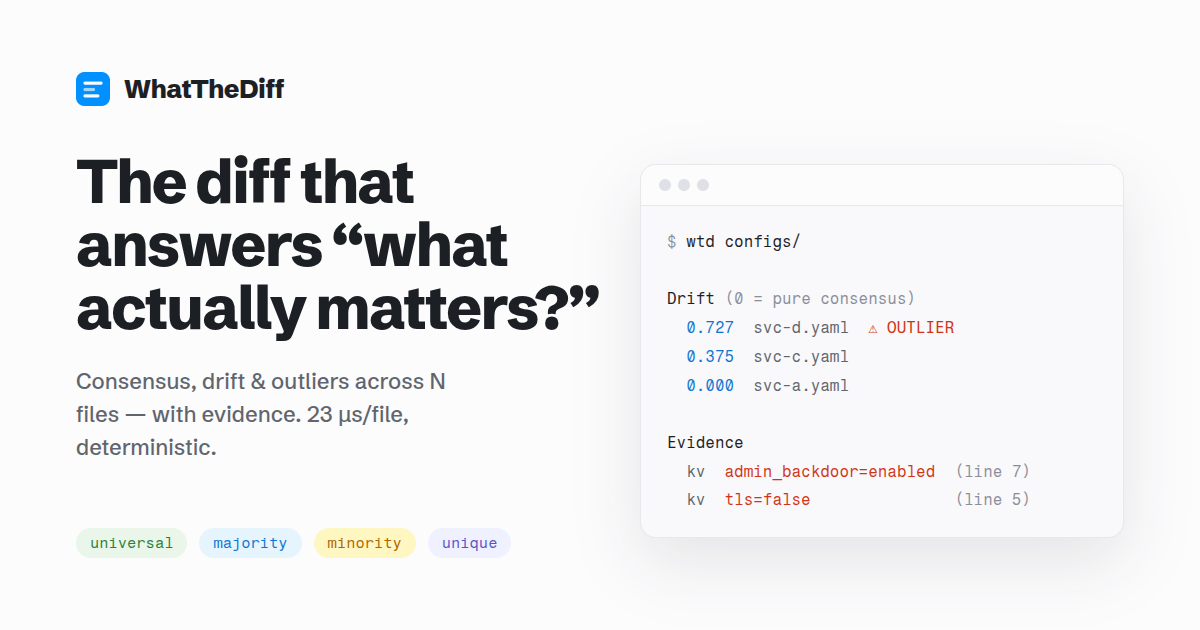
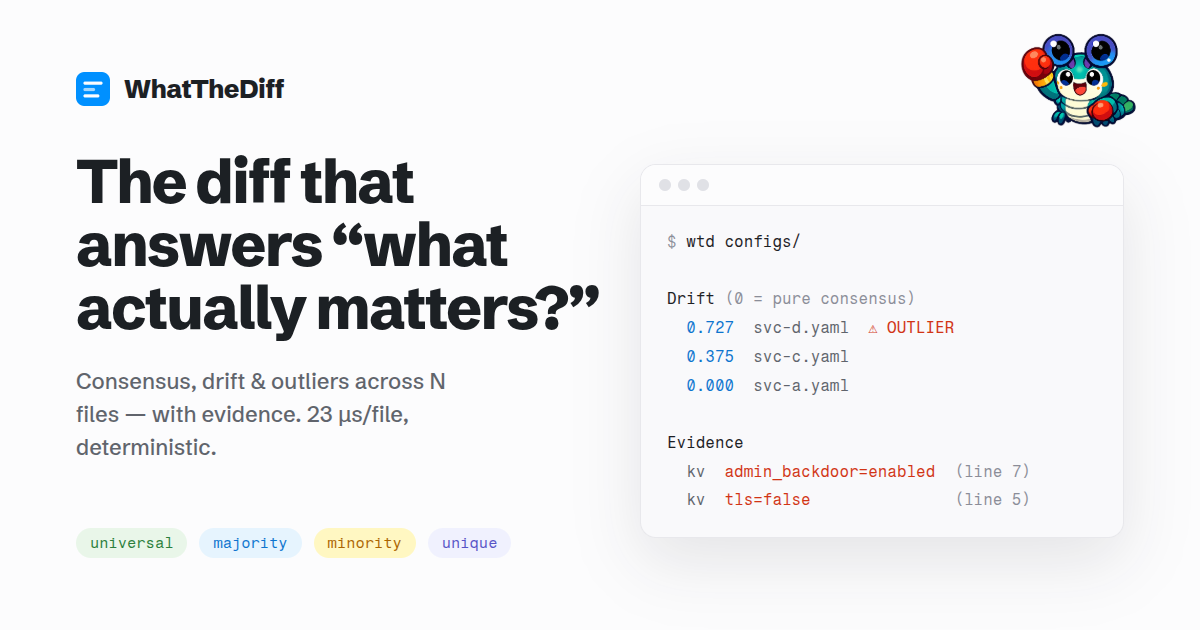
Meet Peek: the WhatTheDiff mascot
Peek is a peacock mantis shrimp — the animal with the most sophisticated
visual system known, able to perceive differences invisible to every
other creature, with the fastest strike in nature for when it spots its
target. Sees everything, flags the one that doesn't belong.

Asset processed from the generated 4-up: best variant selected, alpha
verified (true transparency), RGB nulled under transparent pixels,
trimmed and padded square (571px master at docs/peek.png; legibility
verified at 64px). Placed in the README hero and peeking over the
site's terminal window; OG share image regenerated with Peek. Hero
eyebrow version bumped from stale v0.1.0 to v0.7.0.

Changed region(s): [[0.8325, 0.0603, 0.9558, 0.2111]]

diff --git a/docs/index.html b/docs/index.html
@@ -214,7 +214,14 @@
   .hero-links .plat { color:var(--slate-9); font-size:0.8125rem; }
 
   /* ---------- terminal ---------- */
+  .term-wrap { position:relative; }
+  .peek {
+    position:absolute; top:-72px; right:30px; width:130px; z-index:0;
+    user-select:none; pointer-events:none;
+  }
+  @media (max-width:900px){ .peek { width:92px; top:-52px; right:18px; } }
   .term {
+    position:relative; z-index:1;
     background:var(--slate-2);
     border:var(--border); border-radius:var(--radius-lg);
     box-shadow:0 1px 2px rgba(28,32,36,.04), 0 8px 32px rgba(28,32,36,.06);
@@ -380,7 +387,7 @@
   <div class="hero">
     <div class="wrap">
       <div>
-        <span class="eyebrow rise">Deterministic semantic diff · v0.1.0</span>
+        <span class="eyebrow rise">Deterministic semantic diff · v0.7.0</span>
         <h1 class="rise">The diff that answers<br>“what actually matters?”</h1>
         <p class="lede rise">Point <strong>wtd</strong> at a directory of configs, contracts, or JSON.
         It finds the <strong>consensus</strong>, ranks the <strong>drift</strong>, flags the
@@ -404,6 +411,8 @@
         </div>
       </div>
 
+      <div class="term-wrap">
+      <img class="peek" src="peek.png" alt="Peek, the WhatTheDiff mantis shrimp mascot, peeking over the terminal">
       <figure class="term" aria-label="Real wtd output on a five-file corpus">
         <div class="term-bar" aria-hidden="true"><i></i><i></i><i></i><span>wtd configs/ — 5 artifacts</span></div>
         <pre><span class="dim">$</span> <span class="cmd">wtd configs/</span>
@@ -427,6 +436,7 @@ Corpus: 5 artifacts · 12 distinct primitives · 34 observations
     kv   <span class="bad">tls=false</span>               <span class="dim">(line 5)</span>
     kv   <span class="bad">db.host=10.9.9.9</span>        <span class="dim">(line 3)</span></pre>
       </figure>
+      </div>
     </div>
   </div>
 

diff --git a/README.md b/README.md
@@ -1,5 +1,7 @@
 <div align="center">
 
+<img src="docs/peek.png" width="190" alt="Peek, the WhatTheDiff mascot — a peacock mantis shrimp with huge scanning eyes, one boxing-glove club raised having spotted the outlier">
+
 # 🔍 WhatTheDiff
 
 **Traditional diff tools answer *"what changed?"* — WTD answers *"what actually matters?"***